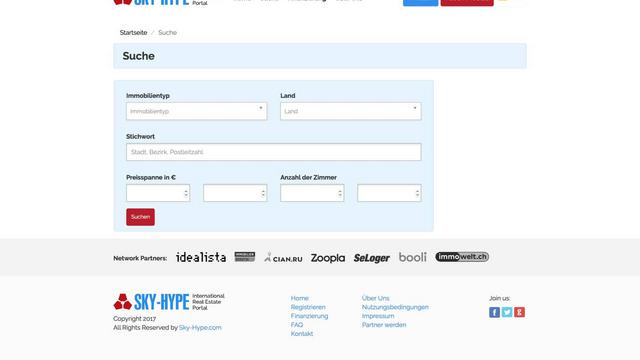
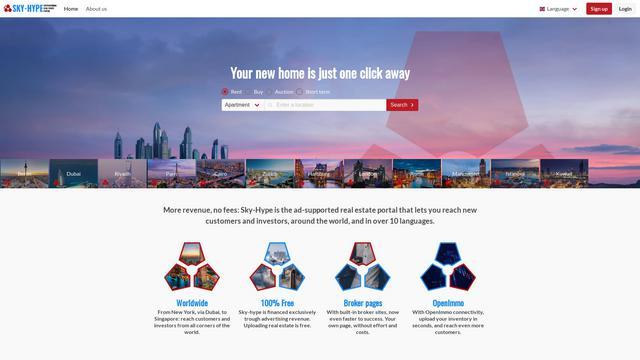
added new projects, fixed links, misc fixes

diff --git a/_layouts/post.html b/_layouts/post.html
@@ -30,7 +30,7 @@ layout: ly_page
               <div class="col-sm-4">
                 <p><a href="/about/" itemprop="author">Franz Geffke</a>
                 <br><a href="mailto:m@f-a.nz" itemprop="email">m@f-a.nz</a> (<a href="/gpg/">public key</a>)
-                <br><a href="https://twitter.com/f_anzs" itemprop="twitter">on Twitter</a></p>
+                <br>on <strike><a href="https://twitter.com/f_anzs" itemprop="twitter">Twitter</a></strike> & <a href="https://pantherx.social/@franz">Mastodon</a></p>
               </div>
             </div>
             <p>Published on <time datetime="{{ page.date | date: "%Y-%m-%d" }}">{{ page.date | date: "%-d %B %Y"}}</time></p>

diff --git a/_layouts/index.html b/_layouts/index.html
@@ -47,7 +47,7 @@ layout: layout
 
   <h4 class="text-uppercase">Latest work</h4>
   <div class="row">
-  {% assign work = site.work | sort: 'date' | reverse %}
+  {% assign work = site.work | where:"featured",true | sort: 'date' | reverse %}
   {% for work in work limit:4 %}
     <div class="col-sm-3">
       <a href="{{ work.url }}" class="wrapper">

diff --git a/_work/sky-hype-real-estate-portal.md b/_work/sky-hype-real-estate-portal.md
@@ -1,9 +1,9 @@
 ---
 layout: page
-title: "Sky-Hype AG Real Estate Portal"
+title: "Sky-Hype Real Estate Portal"
 date: 2016-01-02 00:00:00 +0200
 client: "skyhype"
-cover: sky-hype-01.jpg
+cover: sky-hype-02.jpg
 bg: switzerland
 tags: "web development"
 introduction: Powerful, multi-lingual, worldwide real estate portal.
@@ -14,7 +14,11 @@ featured: true
 
 Sky-Hype AG approached me with the vision to plan, design, develop and maintain the largest, free property portal in the world. With a powerful metasearch engine and over 100 planned source portals, a huge project!
 
-{% include project-image.html image="sky-hype-01.jpg" %}
+### Evolution from 2016 - 2019
+
+{% include project-image.html caption="January 2016, Homepage" image="sky-hype-01.jpg" %}
+
+{% include project-image.html caption="January 2019, Homepage" image="sky-hype-02.jpg" %}
 
 ## What I did
 
@@ -22,9 +26,10 @@ Sky-Hype AG approached me with the vision to plan, design, develop and maintain 
 
 - Free real estate listings in over 100 countries
 - Private account area, user profiles, messaging system
-- Listings with up to 10 high-resolution images, drafts
+- Listings with up to 50 high-resolution images, drafts
 - Translated in 10 languages, 48 more planned
 - Metasearch engine with 8 sources, more planned
+- Import from OpenImmo and KyeroXML
 - Mobile ready
 
 {% include project-image.html image="sky-hype-06.jpg" %}
@@ -72,5 +77,6 @@ Initially developed on ExpressionEngine 2, then 3, Sky-Hype is now powered by [N
 - Nuxt.js frontend; responsive design
 - image storage on Amazon S3
 - Custom, Python based metasearch engine with over 8 sources
+- Custom, OpenImmo & KyeroXML Import tools written in Typescript
 
 Check it out at [www.sky-hype.com](https://www.sky-hype.com/).

diff --git a/_work/erasmusoxygen.md b/_work/erasmusoxygen.md
@@ -6,15 +6,20 @@ client: "independent"
 cover: erasmusoxygen-01.jpg
 bg: switzerland
 tags: "web development"
-introduction: Multilingual community portal for Erasmus students in Istanbul.
+introduction: Multilingual community portal for (Erasmus) students in Istanbul.
 featured: true
 ---
 
 ## The challenge
 
-A multi-lingual community portal for Erasmus students in Istanbul.
+A multi-lingual community portal for (Erasmus) students in Istanbul.
 
-[Preview](http://erasmusoxygen.com/) / [Source code](https://git.sedv.org/erasmusoxygen/website)
+- List EOS events along with others, in the city
+- Popular restaurants, places and sights
+- Info about various immigration matters
+- Multilingual: English, Turkish, French, German, Spanish
+
+[Source code](https://git.sedv.org/erasmusoxygen/website)
 
 {% include project-image.html image="erasmusoxygen-01.jpg" %}
 {% include project-image.html image="erasmusoxygen-02.jpg" %}

diff --git a/_work/no-limit-dubai-website.md b/_work/no-limit-dubai-website.md
@@ -1,0 +1,25 @@
+---
+layout: page
+title: "No Limit Dubai Website"
+date: 2019-11-14 00:00:00 +0200
+client: "aswar"
+cover: no-limit-dubai-02.jpg
+bg: roman-kraft
+tags: "web development"
+introduction: Website for wellness products by No Limit Dubai.
+featured: false
+---
+
+{% include project-image.html image="no-limit-dubai-02.jpg" %}
+{% include project-image.html image="no-limit-dubai-03.jpg" %}
+
+### Website technology
+
+This website is powered by Jekyll, a static site generator that compiles raw assets such as Markdown files into a deployment ready website that allows for secure, efficient hosting without PHP, MYSQL or downtime.
+
+- Completely static
+- Mobile-first design
+- Hosted on AWS S3, AWS CloudFront CDN (99.9% SLA)
+- Secured by SSL Certificate
+
+See for yourself at [no-limit-dubai.com](https://www.no-limit-dubai.com/)

diff --git a/about.md b/about.md
@@ -20,6 +20,8 @@ Here's what I'm reading: [Bookshelf](/bookshelf/)
 My work covers a variety of aspects but to summarize, __I help organizations increase their reach and revenue by optimizing their product, online presence and backend-end processes__. I have clients ranging from startup and small business to international powerhouses and charities.
 
 - GEW, UK
+- DKKMA, UK
+- On Air, Canada
 - GAT Investment Group, Dubai
 - Lingel Windows, Germany
 - FiltaFry, Germany
@@ -28,9 +30,8 @@ My work covers a variety of aspects but to summarize, __I help organizations inc
 - Malaysian-German Society, Malaysia
 - Q-Windows, Malaysia & Singapore
 - Panther MPC, Ireland
+- Aswar Perfumes, Dubai
 - AEE, Germany
-- On Air, Canada
-- DKKMA, UK
 - The Running Awards, UK
 - NEX Inotec, Thailand
 

diff --git a/_work/awab-website.md b/_work/awab-website.md
@@ -1,0 +1,24 @@
+---
+layout: page
+title: "AWAB Website"
+date: 2019-11-14 00:00:00 +0200
+client: "awab"
+cover: awab-01.jpg
+bg: roman-kraft
+tags: "web development"
+introduction: Website for Dubai & Luxembourg based investment company.
+featured: false
+---
+
+{% include project-image.html image="awab-01.jpg" %}
+
+### Website technology
+
+This website is powered by Jekyll, a static site generator that compiles raw assets such as Markdown files into a deployment ready website that allows for secure, efficient hosting without PHP, MYSQL or downtime.
+
+- Completely static
+- Mobile-first design
+- Hosted on AWS S3, AWS CloudFront CDN (99.9% SLA)
+- Secured by SSL Certificate
+
+See for yourself at [awab.group](https://www.awab.group/)

diff --git a/_work/khone-alman-website.md b/_work/khone-alman-website.md
@@ -26,7 +26,7 @@ This website came with a number of challenges:
 
 Allow customers to easily order online. This includes individual wishes such as different sides, sauces and even the style of cooking (rare, medium, well-done).
 
-[Preview](https://khone-alman.ir/en/) / [Source code](https://github.com/franzos/khone-alman.com)
+[Preview](http://khone-alman.ir.s3-website.eu-central-1.amazonaws.com/en/) / [Source code](https://git.sr.ht/~franz/khone-alman.com)
 
 {% include project-image.html image="khone-alman-website-02.jpg" %}
 {% include project-image.html image="khone-alman-website-01.jpg" %}

diff --git a/_work/fixmyscreen.md b/_work/fixmyscreen.md
@@ -14,6 +14,12 @@ featured: true
 
 Website for iPhone Pick-Up & Repair Service with pay.ir integration
 
+- Easy order with device and color selection
+- Payment with popular, local gateway for direct debit
+- Pushes new order to backend for automated processing
+
+[Preview](http://fixmyscreen.ir.s3-website.eu-central-1.amazonaws.com/) / [Source code](https://git.sr.ht/~franz/fixmyscreen.ir)
+
 {% include project-image.html image="fixmyscreen-01.jpg" %}
 {% include project-image.html image="fixmyscreen-02.jpg" %}
 {% include project-image.html image="fixmyscreen-03.jpg" %}

diff --git a/_clients/sky-hype.md b/_clients/sky-hype.md
@@ -1,12 +1,12 @@
 ---
 layout: page_sidebar
-title: "Sky-Hype AG"
+title: "Sky-Hype FZCO"
 date: 2016-01-01 00:00:00 +0200
 client: "skyhype"
 introduction: "Sky-Hype.com is the first, free international property portal with a powerful metasearch engine that already connects you to over 200 million properties and agents around the world."
-city: Schifflange
-country: Luxembourg
-map: "6.0142920, 49.5057480"
+city: Dubai
+country: UAE
+map: "25.2271895, 55.2866176"
 web: sky-hype.com
 categories: digital
 since: 2014

diff --git a/_clients/aswar-perfumes.md b/_clients/aswar-perfumes.md
@@ -1,0 +1,16 @@
+---
+layout: page_sidebar
+title: "Aswar Perfumes Co."
+date: 2019-11-14 00:00:00 +0200
+client: "aswar"
+introduction: "Aswar Perfumes is a family run business that focuses on wellness products, with a particular focus on perfumes and creams."
+city: Dubai
+country: UAE
+map: "25.2216763, 55.2788595"
+web: no-limit-dubai.com
+categories: digital
+since: 2019
+color: "#014271"
+cover: sky-hype-04.jpg
+bg: switzerland
+---

diff --git a/_clients/awab-group.md b/_clients/awab-group.md
@@ -1,0 +1,16 @@
+---
+layout: page_sidebar
+title: "AWAB Group LLC"
+date: 2019-11-14 00:00:00 +0200
+client: "awab"
+introduction: "Awab Commercial Broker is a Dubai based trading and investment company, with a global network of clients and partners."
+city: Dubai
+country: UAE
+map: "55.315805, 25.264008"
+web: awab.group
+categories: digital
+since: 2019
+color: "#014271"
+cover: sky-hype-04.jpg
+bg: switzerland
+---
